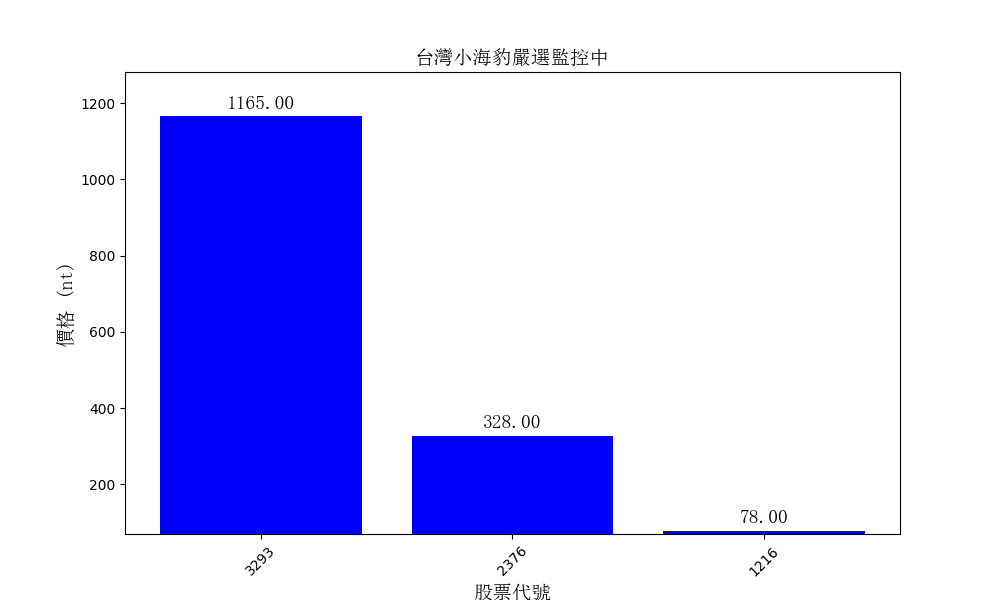
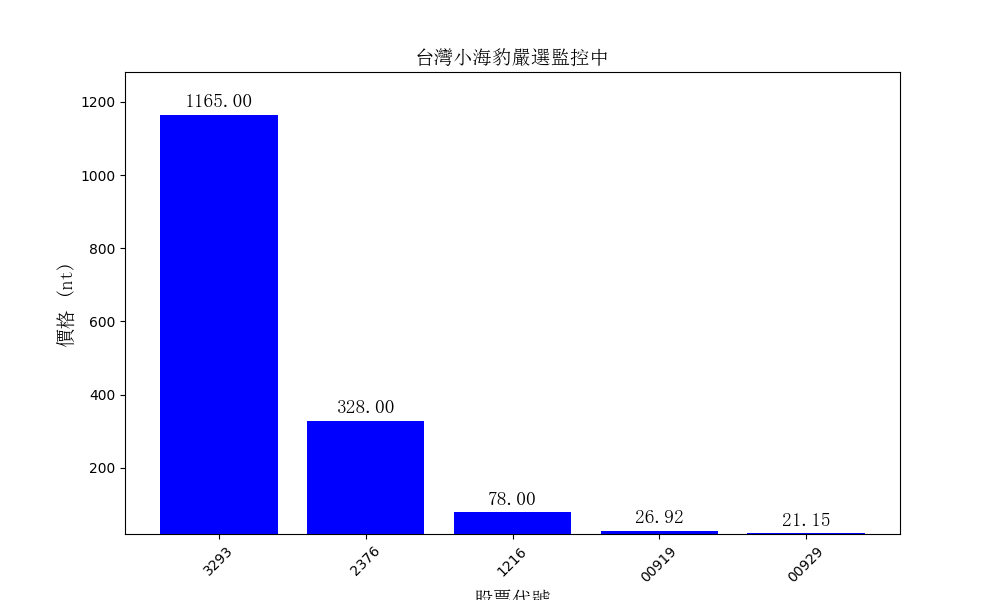
Automated commit message

diff --git a/tw_stock_real_time_bar.py b/tw_stock_real_time_bar.py
@@ -25,7 +25,7 @@ def scrape_stock_price(stock_code):
     else:
         return stock_code, None
 
-stock_codes = ['3293', '2376','1216'] # 可自行增加好孩子
+stock_codes = ['3293', '2376','1216','00919','00929'] # 可自行增加好孩子
 stock_prices = {code: scrape_stock_price(code)[1] for code in stock_codes if scrape_stock_price(code)[1] is not None}
 
 font = FontProperties(fname=r"c:\windows\fonts\simsun.ttc", size=14)
